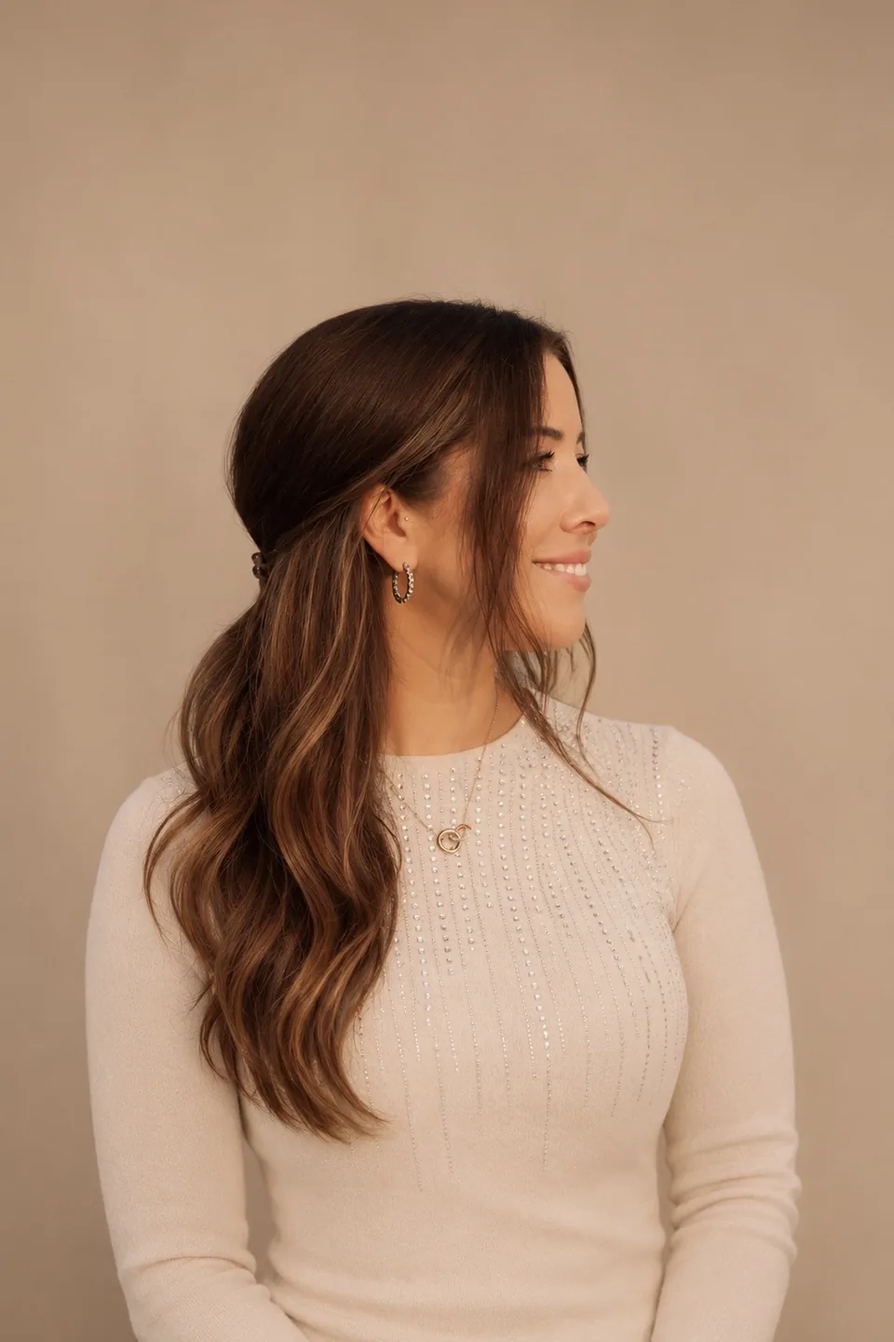
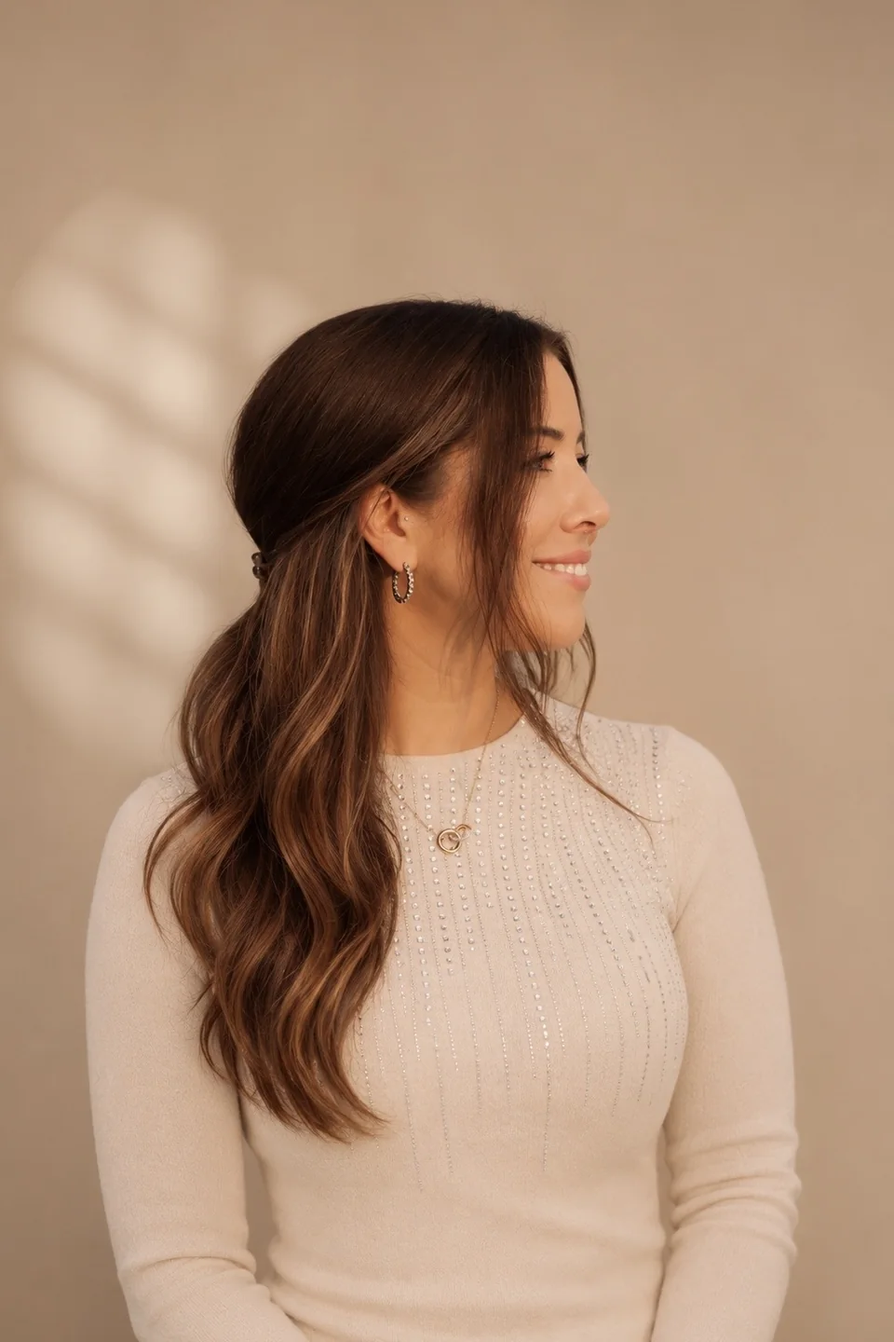
Variante 2: Porträts überarbeitet (Fensterlicht Startseite, mehr Abstand auf Über Isabella)
Claude-Session: https://claude.ai/code/session_01Ni6Yst1iVik6emUksrGswd

Changed region(s): [[0.0, 0.1562, 0.25, 0.5625]]

diff --git a/variante-2/ueber-mich/index.html b/variante-2/ueber-mich/index.html
@@ -1,1 +1,1 @@
-<!DOCTYPE html><html lang="de"><head><meta charset="utf-8"><meta name="viewport" content="width=device-width, initial-scale=1"><title>Isabella Burghardt · Fachkosmetikerin in Lichtenau</title><meta name="description" content="Lerne Isabella Burghardt kennen: Fachkosmetikerin und Inhaberin von Natürlich Bella. Persönliche Hautpflege mit CNC Cosmetics im Heimstudio in Lichtenau."><meta name="robots" content="noindex,nofollow"><meta name="theme-color" content="#59634c"><meta name="referrer" content="strict-origin-when-cross-origin"><link rel="canonical" href="https://johannseel1985.github.io/natuerlich-bella/variante-2/ueber-mich"><meta property="og:locale" content="de_DE"><meta property="og:type" content="website"><meta property="og:site_name" content="Natürlich Bella Kosmetik"><meta property="og:title" content="Isabella Burghardt · Fachkosmetikerin in Lichtenau"><meta property="og:description" content="Lerne Isabella Burghardt kennen: Fachkosmetikerin und Inhaberin von Natürlich Bella. Persönliche Hautpflege mit CNC Cosmetics im Heimstudio in Lichtenau."><meta property="og:url" content="https://johannseel1985.github.io/natuerlich-bella/variante-2/ueber-mich"><meta property="og:image" content="https://johannseel1985.github.io/natuerlich-bella/variante-2/assets/studio-1280.webp"><meta property="og:image:alt" content="Einblick in das Kosmetikstudio Natürlich Bella in Lichtenau"><meta name="twitter:card" content="summary_large_image"><link rel="icon" href="/natuerlich-bella/variante-2/assets/logo-520.webp" type="image/webp"><link rel="stylesheet" href="/natuerlich-bella/variante-2/assets/fonts.css"><link rel="stylesheet" href="/natuerlich-bella/variante-2/assets/style.css?v=4a1a0d350266"><link rel="stylesheet" href="/natuerlich-bella/variante-2/assets/editorial.css?v=ceb3c56431e6"><script type="application/ld+json">{"@context": "https://schema.org", "@graph": [{"@type": "BeautySalon", "@id": "https://johannseel1985.github.io/natuerlich-bella/variante-2/#studio", "name": "Natürlich Bella Kosmetik", "url": "https://johannseel1985.github.io/natuerlich-bella/variante-2/", "telephone": "+4915209856402", "email": "info@natuerlichbella.de", "image": "https://johannseel1985.github.io/natuerlich-bella/variante-2/assets/studio-1280.webp", "logo": "https://johannseel1985.github.io/natuerlich-bella/variante-2/assets/logo-520.webp", "address": {"@type": "PostalAddress", "streetAddress": "Hauptstraße 87", "postalCode": "77839", "addressLocality": "Lichtenau", "addressRegion": "Baden-Württemberg", "addressCountry": "DE"}, "sameAs": ["https://instagram.com/natuerlich.bella.kosmetik", "https://www.facebook.com/share/18hUtpzxiX/"], "description": "Privates Kosmetikstudio von Fachkosmetikerin Isabella Burghardt in Lichtenau. Termine nach Vereinbarung.", "founder": {"@type": "Person", "name": "Isabella Burghardt", "jobTitle": "Fachkosmetikerin"}}, {"@type": "WebSite", "@id": "https://johannseel1985.github.io/natuerlich-bella/variante-2/#website", "name": "Natürlich Bella Kosmetik", "url": "https://johannseel1985.github.io/natuerlich-bella/variante-2/", "inLanguage": "de-DE"}, {"@type": "WebPage", "@id": "https://johannseel1985.github.io/natuerlich-bella/variante-2/ueber-mich#webpage", "url": "https://johannseel1985.github.io/natuerlich-bella/variante-2/ueber-mich", "name": "Isabella Burghardt · Fachkosmetikerin in Lichtenau", "description": "Lerne Isabella Burghardt kennen: Fachkosmetikerin und Inhaberin von Natürlich Bella. Persönliche Hautpflege mit CNC Cosmetics im Heimstudio in Lichtenau.", "inLanguage": "de-DE", "isPartOf": {"@id": "https://johannseel1985.github.io/natuerlich-bella/variante-2/#website"}, "about": {"@id": "https://johannseel1985.github.io/natuerlich-bella/variante-2/#studio"}}, {"@type": "BreadcrumbList", "itemListElement": [{"@type": "ListItem", "position": 1, "name": "Startseite", "item": "https://johannseel1985.github.io/natuerlich-bella/variante-2/"}, {"@type": "ListItem", "position": 2, "name": "Über Isabella", "item": "https://johannseel1985.github.io/natuerlich-bella/variante-2/ueber-mich"}]}]}</script><script src="/natuerlich-bella/variante-2/assets/app.js?v=74eae48e5b1a" defer></script></head><body><a class="skip" href="#main">Zum Inhalt springen</a><header class="site-header"><div class="wrap header-inner"><a class="brand" href="/natuerlich-bella/variante-2/" aria-label="Natürlich Bella · Startseite"><img src="/natuerlich-bella/variante-2/assets/logo-520.webp" alt="" width="75" height="75"><span class="brand-text">Natürlich Bella<small>Kosmetik · Lichtenau</small></span></a><nav class="nav" id="navigation" aria-label="Hauptnavigation"><span class="nav-intro eyebrow">Deine kleine Auszeit</span><a class="nav-link" href="/natuerlich-bella/variante-2/behandlungen/"><span>Behandlungen</span><svg viewBox="0 0 24 24" aria-hidden="true" focusable="false"><path d="M4 12h15m-6-6 6 6-6 6"/></svg></a><a class="nav-link" href="/natuerlich-bella/variante-2/ueber-mich/" aria-current="page"><span>Über Isabella</span><svg viewBox="0 0 24 24" aria-hidden="true" focusable="false"><path d="M4 12h15m-6-6 6 6-6 6"/></svg></a><a class="nav-link" href="/natuerlich-bella/variante-2/preise/"><span>Preise</span><svg viewBox="0 0 24 24" aria-hidden="true" focusable="false"><path d="M4 12h15m-6-6 6 6-6 6"/></svg></a><a class="nav-link" href="/natuerlich-bella/variante-2/gutscheine/"><span>Gutscheine</span><svg viewBox="0 0 24 24" aria-hidden="true" focusable="false"><path d="M4 12h15m-6-6 6 6-6 6"/></svg></a><a class="nav-link" href="/natuerlich-bella/variante-2/kontakt/"><span>Kontakt</span><svg viewBox="0 0 24 24" aria-hidden="true" focusable="false"><path d="M4 12h15m-6-6 6 6-6 6"/></svg></a><div class="nav-footer"><a class="button" href="/natuerlich-bella/variante-2/kontakt/">Deinen Moment anfragen<svg viewBox="0 0 24 24" aria-hidden="true" focusable="false"><path d="M4 12h15m-6-6 6 6-6 6"/></svg></a><span>Persönlich bei Isabella · Lichtenau</span></div></nav><a class="button header-cta" href="/natuerlich-bella/variante-2/kontakt/">Termin anfragen<svg viewBox="0 0 24 24" aria-hidden="true" focusable="false"><path d="M4 12h15m-6-6 6 6-6 6"/></svg></a><button class="menu-toggle" type="button" aria-label="Menü öffnen" aria-expanded="false" aria-controls="navigation"><span>Menü</span><svg viewBox="0 0 24 24" aria-hidden="true" focusable="false"><path class="menu-line menu-line-top" d="M4 8h16"/><path class="menu-line menu-line-bottom" d="M4 16h16"/></svg></button></div></header><div class="menu-backdrop" hidden aria-hidden="true"></div><main id="main"><section class="editorial-hero"><div class="wrap"><nav class="crumbs" aria-label="Brotkrumennavigation"><a href="/natuerlich-bella/variante-2/">Startseite</a><span aria-hidden="true">/</span><span aria-current="page">Über Isabella</span></nav><div class="editorial-hero-grid"><div class="editorial-hero-copy" data-reveal><span class="eyebrow">Persönlich · Achtsam · Natürlich Bella</span><h1>Ein Handwerk.<br><em>Viel Herz.</em></h1><p>Ich bin Isabella Burghardt. Fachkosmetikerin und der Mensch hinter Natürlich Bella. Schön, dass du hier bist.</p><div class="actions"><a class="button" href="/natuerlich-bella/variante-2/kontakt/">Lernen wir uns kennen<svg viewBox="0 0 24 24" aria-hidden="true" focusable="false"><path d="M4 12h15m-6-6 6 6-6 6"/></svg></a></div><div class="editorial-facts"><span>Heimstudio in Lichtenau</span><span>Pflege mit CNC Cosmetics</span></div><div class="handwritten">Ein schöner Moment. Nur für dich.</div></div><div class="editorial-hero-image"><figure class="photo-block hero-shape" data-reveal><span class="motion-frame" data-motion="portrait-about"><img class="" src="/natuerlich-bella/variante-2/assets/portrait-about.webp" width="1200" height="800" alt="Isabella Burghardt von Natürlich Bella" loading="eager" fetchpriority="high" decoding="async"></span><figcaption>Isabella Burghardt · Natürlich Bella</figcaption></figure><span class="picture-seal" aria-hidden="true">Mit Sorgfalt.<br><em>Mit Gefühl.</em></span></div></div></div></section><section class="section"><div class="wrap detail-grid"><div class="detail-copy"><h2>Schönheit beginnt für mich<br>mit <em>Wohlfühlen.</em></h2><p>Meine Ausbildung zur Fachkosmetikerin war der Grundstein für Natürlich Bella. Seitdem ist mein Anspruch derselbe: sorgfältig arbeiten, genau zuhören und mir für jeden Menschen Zeit nehmen.</p><p>Ich möchte verstehen, was dir wichtig ist. Wie sich deine Haut anfühlt. Welche Pflege du schon kennst. Und was du dir von deinem Besuch wünschst. Daraus entsteht eine Behandlung, die zu dir passt.</p><blockquote class="intro-quote">Du sollst dich in deiner Haut wohlfühlen. Ganz natürlich.</blockquote><h3>Persönlich statt unpersönlich.</h3><p>In meinem privaten Heimstudio in Lichtenau erwartet dich eine ruhige, vertraute Atmosphäre. Hier bekommst du meine volle Aufmerksamkeit und Raum für deine Fragen.</p><h3>Pflege, hinter der ich stehe.</h3><p>Ich arbeite mit CNC Cosmetics und lege Wert auf Sorgfalt, fachliche Weiterbildung und eine individuelle Auswahl der Behandlung. Meine Philosophie ist bewusste kosmetische Pflege ohne Botox, Filler oder Operationen.</p><p>Welche Methode für dich geeignet ist, besprechen wir persönlich. Besonders bei apparativen Behandlungen gehört eine passende Nachpflege für mich dazu.</p><div class="signature">Deine Isabella</div><a class="button" href="/natuerlich-bella/variante-2/kontakt/">Lernen wir uns kennen<svg viewBox="0 0 24 24" aria-hidden="true" focusable="false"><path d="M4 12h15m-6-6 6 6-6 6"/></svg></a></div><aside class="detail-aside"><figure class="photo-block story-shape" data-reveal><span class="motion-frame" data-motion="care"><img class="" src="/natuerlich-bella/variante-2/assets/care-1280.webp" srcset="/natuerlich-bella/variante-2/assets/care-640.webp 640w, /natuerlich-bella/variante-2/assets/care-960.webp 960w, /natuerlich-bella/variante-2/assets/care-1280.webp 1280w" sizes="(max-width: 620px) 100vw, 50vw" width="1280" height="1643" alt="Pflegeprodukte und ein weiches Handtuch" loading="lazy" decoding="async"></span><figcaption>Bild aus dem bisherigen Webauftritt</figcaption></figure><div class="information"><span class="eyebrow">Natürlich Bella</span><h3>Dein Studio in Lichtenau</h3><p>Hauptstraße 87<br>77839 Lichtenau<br>Termine nach Vereinbarung</p><a class="text-link" href="/natuerlich-bella/variante-2/kontakt/">Kontakt & Anfahrt<svg viewBox="0 0 24 24" aria-hidden="true" focusable="false"><path d="M4 12h15m-6-6 6 6-6 6"/></svg></a></div></aside></div></section><section class="section studio-invitation"><div class="wrap invitation-grid"><figure class="photo-block invitation-shape" data-reveal><span class="motion-frame" data-motion="studio"><img class="" src="/natuerlich-bella/variante-2/assets/studio-1280.webp" srcset="/natuerlich-bella/variante-2/assets/studio-640.webp 640w, /natuerlich-bella/variante-2/assets/studio-960.webp 960w, /natuerlich-bella/variante-2/assets/studio-1280.webp 1280w" sizes="(max-width: 620px) 100vw, 50vw" width="1280" height="1707" alt="Behandlungsplatz im Heimstudio von Natürlich Bella" loading="lazy" decoding="async"></span><figcaption>Ein echter Einblick in Isabellas Studio</figcaption></figure><div data-reveal><span class="eyebrow">Persönlich bei Isabella</span><h2>Ein kleiner Ort.<br><em>Ganz viel Ruhe.</em></h2><p>Dein Termin findet in meinem privaten Heimstudio in Lichtenau statt. Wir nehmen uns Zeit für deine Wünsche und stimmen die Behandlung persönlich ab.</p><a class="text-link" href="/natuerlich-bella/variante-2/ueber-mich/">Isabella kennenlernen<svg viewBox="0 0 24 24" aria-hidden="true" focusable="false"><path d="M4 12h15m-6-6 6 6-6 6"/></svg></a></div></div></section><section class="contact-band"><div class="wrap" data-reveal><span class="eyebrow">Zeit für dich</span><h2>Dein Moment beginnt<br>mit einem <em>Hallo.</em></h2><p>Du weißt schon, was du dir wünschst? Oder möchtest erst herausfinden, was zu deiner Haut passt? Ich freue mich auf dich.</p><div class="actions"><a class="button" href="/natuerlich-bella/variante-2/kontakt/">Termin anfragen<svg viewBox="0 0 24 24" aria-hidden="true" focusable="false"><path d="M4 12h15m-6-6 6 6-6 6"/></svg></a><a class="contact-link text-link" href="tel:+4915209856402"><svg viewBox="0 0 24 24" aria-hidden="true" focusable="false"><path d="M22 16.92v3a2 2 0 0 1-2.18 2 19.79 19.79 0 0 1-8.63-3.07 19.5 19.5 0 0 1-6-6 19.79 19.79 0 0 1-3.07-8.67A2 2 0 0 1 4.11 2h3a2 2 0 0 1 2 1.72c.12.96.36 1.9.7 2.79a2 2 0 0 1-.45 2.11L8.09 9.89a16 16 0 0 0 6 6l1.27-1.27a2 2 0 0 1 2.11-.45c.89.34 1.83.58 2.79.7A2 2 0 0 1 22 16.92Z"/></svg><span class="contact-link-label">01520 9856402</span></a></div></div></section></main><footer class="footer"><div class="wrap"><div class="footer-grid"><div><a class="brand" href="/natuerlich-bella/variante-2/" aria-label="Natürlich Bella · Startseite"><img src="/natuerlich-bella/variante-2/assets/logo-520.webp" alt="" width="75" height="75"><span class="brand-text">Natürlich Bella<small>Kosmetik · Lichtenau</small></span></a><p>Persönliche Kosmetik. Bewusste Pflege.<br>Deine kleine Auszeit in Lichtenau.</p></div><div><h3>Entdecken</h3><ul><li><a href="/natuerlich-bella/variante-2/behandlungen/">Behandlungen</a></li><li><a href="/natuerlich-bella/variante-2/preise/">Preise & Dauer</a></li><li><a href="/natuerlich-bella/variante-2/ueber-mich/">Über Isabella</a></li><li><a href="/natuerlich-bella/variante-2/gutscheine/">Gutscheine</a></li></ul></div><div><h3>Dein Besuch</h3><address>Isabella Burghardt<br>Hauptstraße 87<br>77839 Lichtenau</address><p>Termine nach Vereinbarung</p></div><div><h3>In Verbindung bleiben</h3><ul class="footer-contact"><li><a class="contact-link " href="tel:+4915209856402"><svg viewBox="0 0 24 24" aria-hidden="true" focusable="false"><path d="M22 16.92v3a2 2 0 0 1-2.18 2 19.79 19.79 0 0 1-8.63-3.07 19.5 19.5 0 0 1-6-6 19.79 19.79 0 0 1-3.07-8.67A2 2 0 0 1 4.11 2h3a2 2 0 0 1 2 1.72c.12.96.36 1.9.7 2.79a2 2 0 0 1-.45 2.11L8.09 9.89a16 16 0 0 0 6 6l1.27-1.27a2 2 0 0 1 2.11-.45c.89.34 1.83.58 2.79.7A2 2 0 0 1 22 16.92Z"/></svg><span class="contact-link-label">01520 9856402</span></a></li><li><a class="contact-link " href="mailto:info@natuerlichbella.de"><svg viewBox="0 0 24 24" aria-hidden="true" focusable="false"><rect x="3" y="5" width="18" height="14" rx="2.5"/><path d="m3.5 6.5 7.3 5.5a2 2 0 0 0 2.4 0l7.3-5.5"/></svg><span class="contact-link-label">info@natuerlichbella.de</span></a></li><li><a class="contact-link " href="https://wa.me/4915209856402" target="_blank" rel="noopener noreferrer"><svg viewBox="0 0 24 24" aria-hidden="true" focusable="false"><path d="M20.5 11.5a8.5 8.5 0 0 1-12.6 7.4L3 20.5l1.6-4.8a8.5 8.5 0 1 1 15.9-4.2Z"/><path d="m8.2 7.5 1.6 2.4-1 1.1a10 10 0 0 0 4.2 4.2l1.1-1 2.4 1.6c-.4 1-1.3 1.5-2.3 1.2-3.6-1-6.5-3.9-7.5-7.5-.3-1 .2-1.9 1.5-2Z"/></svg><span class="contact-link-label">WhatsApp</span></a></li><li><a class="contact-link " href="https://instagram.com/natuerlich.bella.kosmetik" target="_blank" rel="noopener noreferrer"><svg viewBox="0 0 24 24" aria-hidden="true" focusable="false"><rect x="3" y="3" width="18" height="18" rx="5"/><circle cx="12" cy="12" r="4"/><circle cx="17.5" cy="6.5" r="1" fill="currentColor" stroke="none"/></svg><span class="contact-link-label">Instagram</span></a></li><li><a class="contact-link " href="https://www.facebook.com/share/18hUtpzxiX/" target="_blank" rel="noopener noreferrer"><svg viewBox="0 0 24 24" aria-hidden="true" focusable="false"><rect x="3" y="3" width="18" height="18" rx="5"/><path d="M15.5 8H14c-1.1 0-2 .9-2 2v11M9.5 13h5.5"/></svg><span class="contact-link-label">Facebook</span></a></li></ul></div></div><div class="footer-bottom"><span>© Natürlich Bella Kosmetik · Isabella Burghardt</span><div class="footer-legal"><a href="/natuerlich-bella/variante-2/impressum/">Impressum</a><a href="/natuerlich-bella/variante-2/datenschutz/">Datenschutz</a></div></div></div></footer><div class="mobile-cta"><a href="tel:+4915209856402"><svg viewBox="0 0 24 24" aria-hidden="true" focusable="false"><path d="M22 16.92v3a2 2 0 0 1-2.18 2 19.79 19.79 0 0 1-8.63-3.07 19.5 19.5 0 0 1-6-6 19.79 19.79 0 0 1-3.07-8.67A2 2 0 0 1 4.11 2h3a2 2 0 0 1 2 1.72c.12.96.36 1.9.7 2.79a2 2 0 0 1-.45 2.11L8.09 9.89a16 16 0 0 0 6 6l1.27-1.27a2 2 0 0 1 2.11-.45c.89.34 1.83.58 2.79.7A2 2 0 0 1 22 16.92Z"/></svg>Anrufen</a><a class="button" href="/natuerlich-bella/variante-2/kontakt/">Termin anfragen<svg viewBox="0 0 24 24" aria-hidden="true" focusable="false"><path d="M4 12h15m-6-6 6 6-6 6"/></svg></a></div><button class="motion-toggle" type="button" hidden aria-label="Bewegung pausieren" aria-pressed="false"><svg viewBox="0 0 24 24" aria-hidden="true"><path class="motion-pause-icon" d="M9 5v14M15 5v14"/><path class="motion-play-icon" d="m8 5 11 7-11 7Z"/></svg><span>Bewegung pausieren</span></button></body></html>
+<!DOCTYPE html><html lang="de"><head><meta charset="utf-8"><meta name="viewport" content="width=device-width, initial-scale=1"><title>Isabella Burghardt · Fachkosmetikerin in Lichtenau</title><meta name="description" content="Lerne Isabella Burghardt kennen: Fachkosmetikerin und Inhaberin von Natürlich Bella. Persönliche Hautpflege mit CNC Cosmetics im Heimstudio in Lichtenau."><meta name="robots" content="noindex,nofollow"><meta name="theme-color" content="#59634c"><meta name="referrer" content="strict-origin-when-cross-origin"><link rel="canonical" href="https://johannseel1985.github.io/natuerlich-bella/variante-2/ueber-mich"><meta property="og:locale" content="de_DE"><meta property="og:type" content="website"><meta property="og:site_name" content="Natürlich Bella Kosmetik"><meta property="og:title" content="Isabella Burghardt · Fachkosmetikerin in Lichtenau"><meta property="og:description" content="Lerne Isabella Burghardt kennen: Fachkosmetikerin und Inhaberin von Natürlich Bella. Persönliche Hautpflege mit CNC Cosmetics im Heimstudio in Lichtenau."><meta property="og:url" content="https://johannseel1985.github.io/natuerlich-bella/variante-2/ueber-mich"><meta property="og:image" content="https://johannseel1985.github.io/natuerlich-bella/variante-2/assets/studio-1280.webp"><meta property="og:image:alt" content="Einblick in das Kosmetikstudio Natürlich Bella in Lichtenau"><meta name="twitter:card" content="summary_large_image"><link rel="icon" href="/natuerlich-bella/variante-2/assets/logo-520.webp" type="image/webp"><link rel="stylesheet" href="/natuerlich-bella/variante-2/assets/fonts.css"><link rel="stylesheet" href="/natuerlich-bella/variante-2/assets/style.css?v=4a1a0d350266"><link rel="stylesheet" href="/natuerlich-bella/variante-2/assets/editorial.css?v=ceb3c56431e6"><script type="application/ld+json">{"@context": "https://schema.org", "@graph": [{"@type": "BeautySalon", "@id": "https://johannseel1985.github.io/natuerlich-bella/variante-2/#studio", "name": "Natürlich Bella Kosmetik", "url": "https://johannseel1985.github.io/natuerlich-bella/variante-2/", "telephone": "+4915209856402", "email": "info@natuerlichbella.de", "image": "https://johannseel1985.github.io/natuerlich-bella/variante-2/assets/studio-1280.webp", "logo": "https://johannseel1985.github.io/natuerlich-bella/variante-2/assets/logo-520.webp", "address": {"@type": "PostalAddress", "streetAddress": "Hauptstraße 87", "postalCode": "77839", "addressLocality": "Lichtenau", "addressRegion": "Baden-Württemberg", "addressCountry": "DE"}, "sameAs": ["https://instagram.com/natuerlich.bella.kosmetik", "https://www.facebook.com/share/18hUtpzxiX/"], "description": "Privates Kosmetikstudio von Fachkosmetikerin Isabella Burghardt in Lichtenau. Termine nach Vereinbarung.", "founder": {"@type": "Person", "name": "Isabella Burghardt", "jobTitle": "Fachkosmetikerin"}}, {"@type": "WebSite", "@id": "https://johannseel1985.github.io/natuerlich-bella/variante-2/#website", "name": "Natürlich Bella Kosmetik", "url": "https://johannseel1985.github.io/natuerlich-bella/variante-2/", "inLanguage": "de-DE"}, {"@type": "WebPage", "@id": "https://johannseel1985.github.io/natuerlich-bella/variante-2/ueber-mich#webpage", "url": "https://johannseel1985.github.io/natuerlich-bella/variante-2/ueber-mich", "name": "Isabella Burghardt · Fachkosmetikerin in Lichtenau", "description": "Lerne Isabella Burghardt kennen: Fachkosmetikerin und Inhaberin von Natürlich Bella. Persönliche Hautpflege mit CNC Cosmetics im Heimstudio in Lichtenau.", "inLanguage": "de-DE", "isPartOf": {"@id": "https://johannseel1985.github.io/natuerlich-bella/variante-2/#website"}, "about": {"@id": "https://johannseel1985.github.io/natuerlich-bella/variante-2/#studio"}}, {"@type": "BreadcrumbList", "itemListElement": [{"@type": "ListItem", "position": 1, "name": "Startseite", "item": "https://johannseel1985.github.io/natuerlich-bella/variante-2/"}, {"@type": "ListItem", "position": 2, "name": "Über Isabella", "item": "https://johannseel1985.github.io/natuerlich-bella/variante-2/ueber-mich"}]}]}</script><script src="/natuerlich-bella/variante-2/assets/app.js?v=74eae48e5b1a" defer></script></head><body><a class="skip" href="#main">Zum Inhalt springen</a><header class="site-header"><div class="wrap header-inner"><a class="brand" href="/natuerlich-bella/variante-2/" aria-label="Natürlich Bella · Startseite"><img src="/natuerlich-bella/variante-2/assets/logo-520.webp" alt="" width="75" height="75"><span class="brand-text">Natürlich Bella<small>Kosmetik · Lichtenau</small></span></a><nav class="nav" id="navigation" aria-label="Hauptnavigation"><span class="nav-intro eyebrow">Deine kleine Auszeit</span><a class="nav-link" href="/natuerlich-bella/variante-2/behandlungen/"><span>Behandlungen</span><svg viewBox="0 0 24 24" aria-hidden="true" focusable="false"><path d="M4 12h15m-6-6 6 6-6 6"/></svg></a><a class="nav-link" href="/natuerlich-bella/variante-2/ueber-mich/" aria-current="page"><span>Über Isabella</span><svg viewBox="0 0 24 24" aria-hidden="true" focusable="false"><path d="M4 12h15m-6-6 6 6-6 6"/></svg></a><a class="nav-link" href="/natuerlich-bella/variante-2/preise/"><span>Preise</span><svg viewBox="0 0 24 24" aria-hidden="true" focusable="false"><path d="M4 12h15m-6-6 6 6-6 6"/></svg></a><a class="nav-link" href="/natuerlich-bella/variante-2/gutscheine/"><span>Gutscheine</span><svg viewBox="0 0 24 24" aria-hidden="true" focusable="false"><path d="M4 12h15m-6-6 6 6-6 6"/></svg></a><a class="nav-link" href="/natuerlich-bella/variante-2/kontakt/"><span>Kontakt</span><svg viewBox="0 0 24 24" aria-hidden="true" focusable="false"><path d="M4 12h15m-6-6 6 6-6 6"/></svg></a><div class="nav-footer"><a class="button" href="/natuerlich-bella/variante-2/kontakt/">Deinen Moment anfragen<svg viewBox="0 0 24 24" aria-hidden="true" focusable="false"><path d="M4 12h15m-6-6 6 6-6 6"/></svg></a><span>Persönlich bei Isabella · Lichtenau</span></div></nav><a class="button header-cta" href="/natuerlich-bella/variante-2/kontakt/">Termin anfragen<svg viewBox="0 0 24 24" aria-hidden="true" focusable="false"><path d="M4 12h15m-6-6 6 6-6 6"/></svg></a><button class="menu-toggle" type="button" aria-label="Menü öffnen" aria-expanded="false" aria-controls="navigation"><span>Menü</span><svg viewBox="0 0 24 24" aria-hidden="true" focusable="false"><path class="menu-line menu-line-top" d="M4 8h16"/><path class="menu-line menu-line-bottom" d="M4 16h16"/></svg></button></div></header><div class="menu-backdrop" hidden aria-hidden="true"></div><main id="main"><section class="editorial-hero"><div class="wrap"><nav class="crumbs" aria-label="Brotkrumennavigation"><a href="/natuerlich-bella/variante-2/">Startseite</a><span aria-hidden="true">/</span><span aria-current="page">Über Isabella</span></nav><div class="editorial-hero-grid"><div class="editorial-hero-copy" data-reveal><span class="eyebrow">Persönlich · Achtsam · Natürlich Bella</span><h1>Ein Handwerk.<br><em>Viel Herz.</em></h1><p>Ich bin Isabella Burghardt. Fachkosmetikerin und der Mensch hinter Natürlich Bella. Schön, dass du hier bist.</p><div class="actions"><a class="button" href="/natuerlich-bella/variante-2/kontakt/">Lernen wir uns kennen<svg viewBox="0 0 24 24" aria-hidden="true" focusable="false"><path d="M4 12h15m-6-6 6 6-6 6"/></svg></a></div><div class="editorial-facts"><span>Heimstudio in Lichtenau</span><span>Pflege mit CNC Cosmetics</span></div><div class="handwritten">Ein schöner Moment. Nur für dich.</div></div><div class="editorial-hero-image"><figure class="photo-block hero-shape" data-reveal><span class="motion-frame" data-motion="portrait-about"><img class="" src="/natuerlich-bella/variante-2/assets/portrait-about.webp" width="1600" height="1067" alt="Isabella Burghardt von Natürlich Bella" loading="eager" fetchpriority="high" decoding="async"></span><figcaption>Isabella Burghardt · Natürlich Bella</figcaption></figure><span class="picture-seal" aria-hidden="true">Mit Sorgfalt.<br><em>Mit Gefühl.</em></span></div></div></div></section><section class="section"><div class="wrap detail-grid"><div class="detail-copy"><h2>Schönheit beginnt für mich<br>mit <em>Wohlfühlen.</em></h2><p>Meine Ausbildung zur Fachkosmetikerin war der Grundstein für Natürlich Bella. Seitdem ist mein Anspruch derselbe: sorgfältig arbeiten, genau zuhören und mir für jeden Menschen Zeit nehmen.</p><p>Ich möchte verstehen, was dir wichtig ist. Wie sich deine Haut anfühlt. Welche Pflege du schon kennst. Und was du dir von deinem Besuch wünschst. Daraus entsteht eine Behandlung, die zu dir passt.</p><blockquote class="intro-quote">Du sollst dich in deiner Haut wohlfühlen. Ganz natürlich.</blockquote><h3>Persönlich statt unpersönlich.</h3><p>In meinem privaten Heimstudio in Lichtenau erwartet dich eine ruhige, vertraute Atmosphäre. Hier bekommst du meine volle Aufmerksamkeit und Raum für deine Fragen.</p><h3>Pflege, hinter der ich stehe.</h3><p>Ich arbeite mit CNC Cosmetics und lege Wert auf Sorgfalt, fachliche Weiterbildung und eine individuelle Auswahl der Behandlung. Meine Philosophie ist bewusste kosmetische Pflege ohne Botox, Filler oder Operationen.</p><p>Welche Methode für dich geeignet ist, besprechen wir persönlich. Besonders bei apparativen Behandlungen gehört eine passende Nachpflege für mich dazu.</p><div class="signature">Deine Isabella</div><a class="button" href="/natuerlich-bella/variante-2/kontakt/">Lernen wir uns kennen<svg viewBox="0 0 24 24" aria-hidden="true" focusable="false"><path d="M4 12h15m-6-6 6 6-6 6"/></svg></a></div><aside class="detail-aside"><figure class="photo-block story-shape" data-reveal><span class="motion-frame" data-motion="care"><img class="" src="/natuerlich-bella/variante-2/assets/care-1280.webp" srcset="/natuerlich-bella/variante-2/assets/care-640.webp 640w, /natuerlich-bella/variante-2/assets/care-960.webp 960w, /natuerlich-bella/variante-2/assets/care-1280.webp 1280w" sizes="(max-width: 620px) 100vw, 50vw" width="1280" height="1643" alt="Pflegeprodukte und ein weiches Handtuch" loading="lazy" decoding="async"></span><figcaption>Bild aus dem bisherigen Webauftritt</figcaption></figure><div class="information"><span class="eyebrow">Natürlich Bella</span><h3>Dein Studio in Lichtenau</h3><p>Hauptstraße 87<br>77839 Lichtenau<br>Termine nach Vereinbarung</p><a class="text-link" href="/natuerlich-bella/variante-2/kontakt/">Kontakt & Anfahrt<svg viewBox="0 0 24 24" aria-hidden="true" focusable="false"><path d="M4 12h15m-6-6 6 6-6 6"/></svg></a></div></aside></div></section><section class="section studio-invitation"><div class="wrap invitation-grid"><figure class="photo-block invitation-shape" data-reveal><span class="motion-frame" data-motion="studio"><img class="" src="/natuerlich-bella/variante-2/assets/studio-1280.webp" srcset="/natuerlich-bella/variante-2/assets/studio-640.webp 640w, /natuerlich-bella/variante-2/assets/studio-960.webp 960w, /natuerlich-bella/variante-2/assets/studio-1280.webp 1280w" sizes="(max-width: 620px) 100vw, 50vw" width="1280" height="1707" alt="Behandlungsplatz im Heimstudio von Natürlich Bella" loading="lazy" decoding="async"></span><figcaption>Ein echter Einblick in Isabellas Studio</figcaption></figure><div data-reveal><span class="eyebrow">Persönlich bei Isabella</span><h2>Ein kleiner Ort.<br><em>Ganz viel Ruhe.</em></h2><p>Dein Termin findet in meinem privaten Heimstudio in Lichtenau statt. Wir nehmen uns Zeit für deine Wünsche und stimmen die Behandlung persönlich ab.</p><a class="text-link" href="/natuerlich-bella/variante-2/ueber-mich/">Isabella kennenlernen<svg viewBox="0 0 24 24" aria-hidden="true" focusable="false"><path d="M4 12h15m-6-6 6 6-6 6"/></svg></a></div></div></section><section class="contact-band"><div class="wrap" data-reveal><span class="eyebrow">Zeit für dich</span><h2>Dein Moment beginnt<br>mit einem <em>Hallo.</em></h2><p>Du weißt schon, was du dir wünschst? Oder möchtest erst herausfinden, was zu deiner Haut passt? Ich freue mich auf dich.</p><div class="actions"><a class="button" href="/natuerlich-bella/variante-2/kontakt/">Termin anfragen<svg viewBox="0 0 24 24" aria-hidden="true" focusable="false"><path d="M4 12h15m-6-6 6 6-6 6"/></svg></a><a class="contact-link text-link" href="tel:+4915209856402"><svg viewBox="0 0 24 24" aria-hidden="true" focusable="false"><path d="M22 16.92v3a2 2 0 0 1-2.18 2 19.79 19.79 0 0 1-8.63-3.07 19.5 19.5 0 0 1-6-6 19.79 19.79 0 0 1-3.07-8.67A2 2 0 0 1 4.11 2h3a2 2 0 0 1 2 1.72c.12.96.36 1.9.7 2.79a2 2 0 0 1-.45 2.11L8.09 9.89a16 16 0 0 0 6 6l1.27-1.27a2 2 0 0 1 2.11-.45c.89.34 1.83.58 2.79.7A2 2 0 0 1 22 16.92Z"/></svg><span class="contact-link-label">01520 9856402</span></a></div></div></section></main><footer class="footer"><div class="wrap"><div class="footer-grid"><div><a class="brand" href="/natuerlich-bella/variante-2/" aria-label="Natürlich Bella · Startseite"><img src="/natuerlich-bella/variante-2/assets/logo-520.webp" alt="" width="75" height="75"><span class="brand-text">Natürlich Bella<small>Kosmetik · Lichtenau</small></span></a><p>Persönliche Kosmetik. Bewusste Pflege.<br>Deine kleine Auszeit in Lichtenau.</p></div><div><h3>Entdecken</h3><ul><li><a href="/natuerlich-bella/variante-2/behandlungen/">Behandlungen</a></li><li><a href="/natuerlich-bella/variante-2/preise/">Preise & Dauer</a></li><li><a href="/natuerlich-bella/variante-2/ueber-mich/">Über Isabella</a></li><li><a href="/natuerlich-bella/variante-2/gutscheine/">Gutscheine</a></li></ul></div><div><h3>Dein Besuch</h3><address>Isabella Burghardt<br>Hauptstraße 87<br>77839 Lichtenau</address><p>Termine nach Vereinbarung</p></div><div><h3>In Verbindung bleiben</h3><ul class="footer-contact"><li><a class="contact-link " href="tel:+4915209856402"><svg viewBox="0 0 24 24" aria-hidden="true" focusable="false"><path d="M22 16.92v3a2 2 0 0 1-2.18 2 19.79 19.79 0 0 1-8.63-3.07 19.5 19.5 0 0 1-6-6 19.79 19.79 0 0 1-3.07-8.67A2 2 0 0 1 4.11 2h3a2 2 0 0 1 2 1.72c.12.96.36 1.9.7 2.79a2 2 0 0 1-.45 2.11L8.09 9.89a16 16 0 0 0 6 6l1.27-1.27a2 2 0 0 1 2.11-.45c.89.34 1.83.58 2.79.7A2 2 0 0 1 22 16.92Z"/></svg><span class="contact-link-label">01520 9856402</span></a></li><li><a class="contact-link " href="mailto:info@natuerlichbella.de"><svg viewBox="0 0 24 24" aria-hidden="true" focusable="false"><rect x="3" y="5" width="18" height="14" rx="2.5"/><path d="m3.5 6.5 7.3 5.5a2 2 0 0 0 2.4 0l7.3-5.5"/></svg><span class="contact-link-label">info@natuerlichbella.de</span></a></li><li><a class="contact-link " href="https://wa.me/4915209856402" target="_blank" rel="noopener noreferrer"><svg viewBox="0 0 24 24" aria-hidden="true" focusable="false"><path d="M20.5 11.5a8.5 8.5 0 0 1-12.6 7.4L3 20.5l1.6-4.8a8.5 8.5 0 1 1 15.9-4.2Z"/><path d="m8.2 7.5 1.6 2.4-1 1.1a10 10 0 0 0 4.2 4.2l1.1-1 2.4 1.6c-.4 1-1.3 1.5-2.3 1.2-3.6-1-6.5-3.9-7.5-7.5-.3-1 .2-1.9 1.5-2Z"/></svg><span class="contact-link-label">WhatsApp</span></a></li><li><a class="contact-link " href="https://instagram.com/natuerlich.bella.kosmetik" target="_blank" rel="noopener noreferrer"><svg viewBox="0 0 24 24" aria-hidden="true" focusable="false"><rect x="3" y="3" width="18" height="18" rx="5"/><circle cx="12" cy="12" r="4"/><circle cx="17.5" cy="6.5" r="1" fill="currentColor" stroke="none"/></svg><span class="contact-link-label">Instagram</span></a></li><li><a class="contact-link " href="https://www.facebook.com/share/18hUtpzxiX/" target="_blank" rel="noopener noreferrer"><svg viewBox="0 0 24 24" aria-hidden="true" focusable="false"><rect x="3" y="3" width="18" height="18" rx="5"/><path d="M15.5 8H14c-1.1 0-2 .9-2 2v11M9.5 13h5.5"/></svg><span class="contact-link-label">Facebook</span></a></li></ul></div></div><div class="footer-bottom"><span>© Natürlich Bella Kosmetik · Isabella Burghardt</span><div class="footer-legal"><a href="/natuerlich-bella/variante-2/impressum/">Impressum</a><a href="/natuerlich-bella/variante-2/datenschutz/">Datenschutz</a></div></div></div></footer><div class="mobile-cta"><a href="tel:+4915209856402"><svg viewBox="0 0 24 24" aria-hidden="true" focusable="false"><path d="M22 16.92v3a2 2 0 0 1-2.18 2 19.79 19.79 0 0 1-8.63-3.07 19.5 19.5 0 0 1-6-6 19.79 19.79 0 0 1-3.07-8.67A2 2 0 0 1 4.11 2h3a2 2 0 0 1 2 1.72c.12.96.36 1.9.7 2.79a2 2 0 0 1-.45 2.11L8.09 9.89a16 16 0 0 0 6 6l1.27-1.27a2 2 0 0 1 2.11-.45c.89.34 1.83.58 2.79.7A2 2 0 0 1 22 16.92Z"/></svg>Anrufen</a><a class="button" href="/natuerlich-bella/variante-2/kontakt/">Termin anfragen<svg viewBox="0 0 24 24" aria-hidden="true" focusable="false"><path d="M4 12h15m-6-6 6 6-6 6"/></svg></a></div><button class="motion-toggle" type="button" hidden aria-label="Bewegung pausieren" aria-pressed="false"><svg viewBox="0 0 24 24" aria-hidden="true"><path class="motion-pause-icon" d="M9 5v14M15 5v14"/><path class="motion-play-icon" d="m8 5 11 7-11 7Z"/></svg><span>Bewegung pausieren</span></button></body></html>
